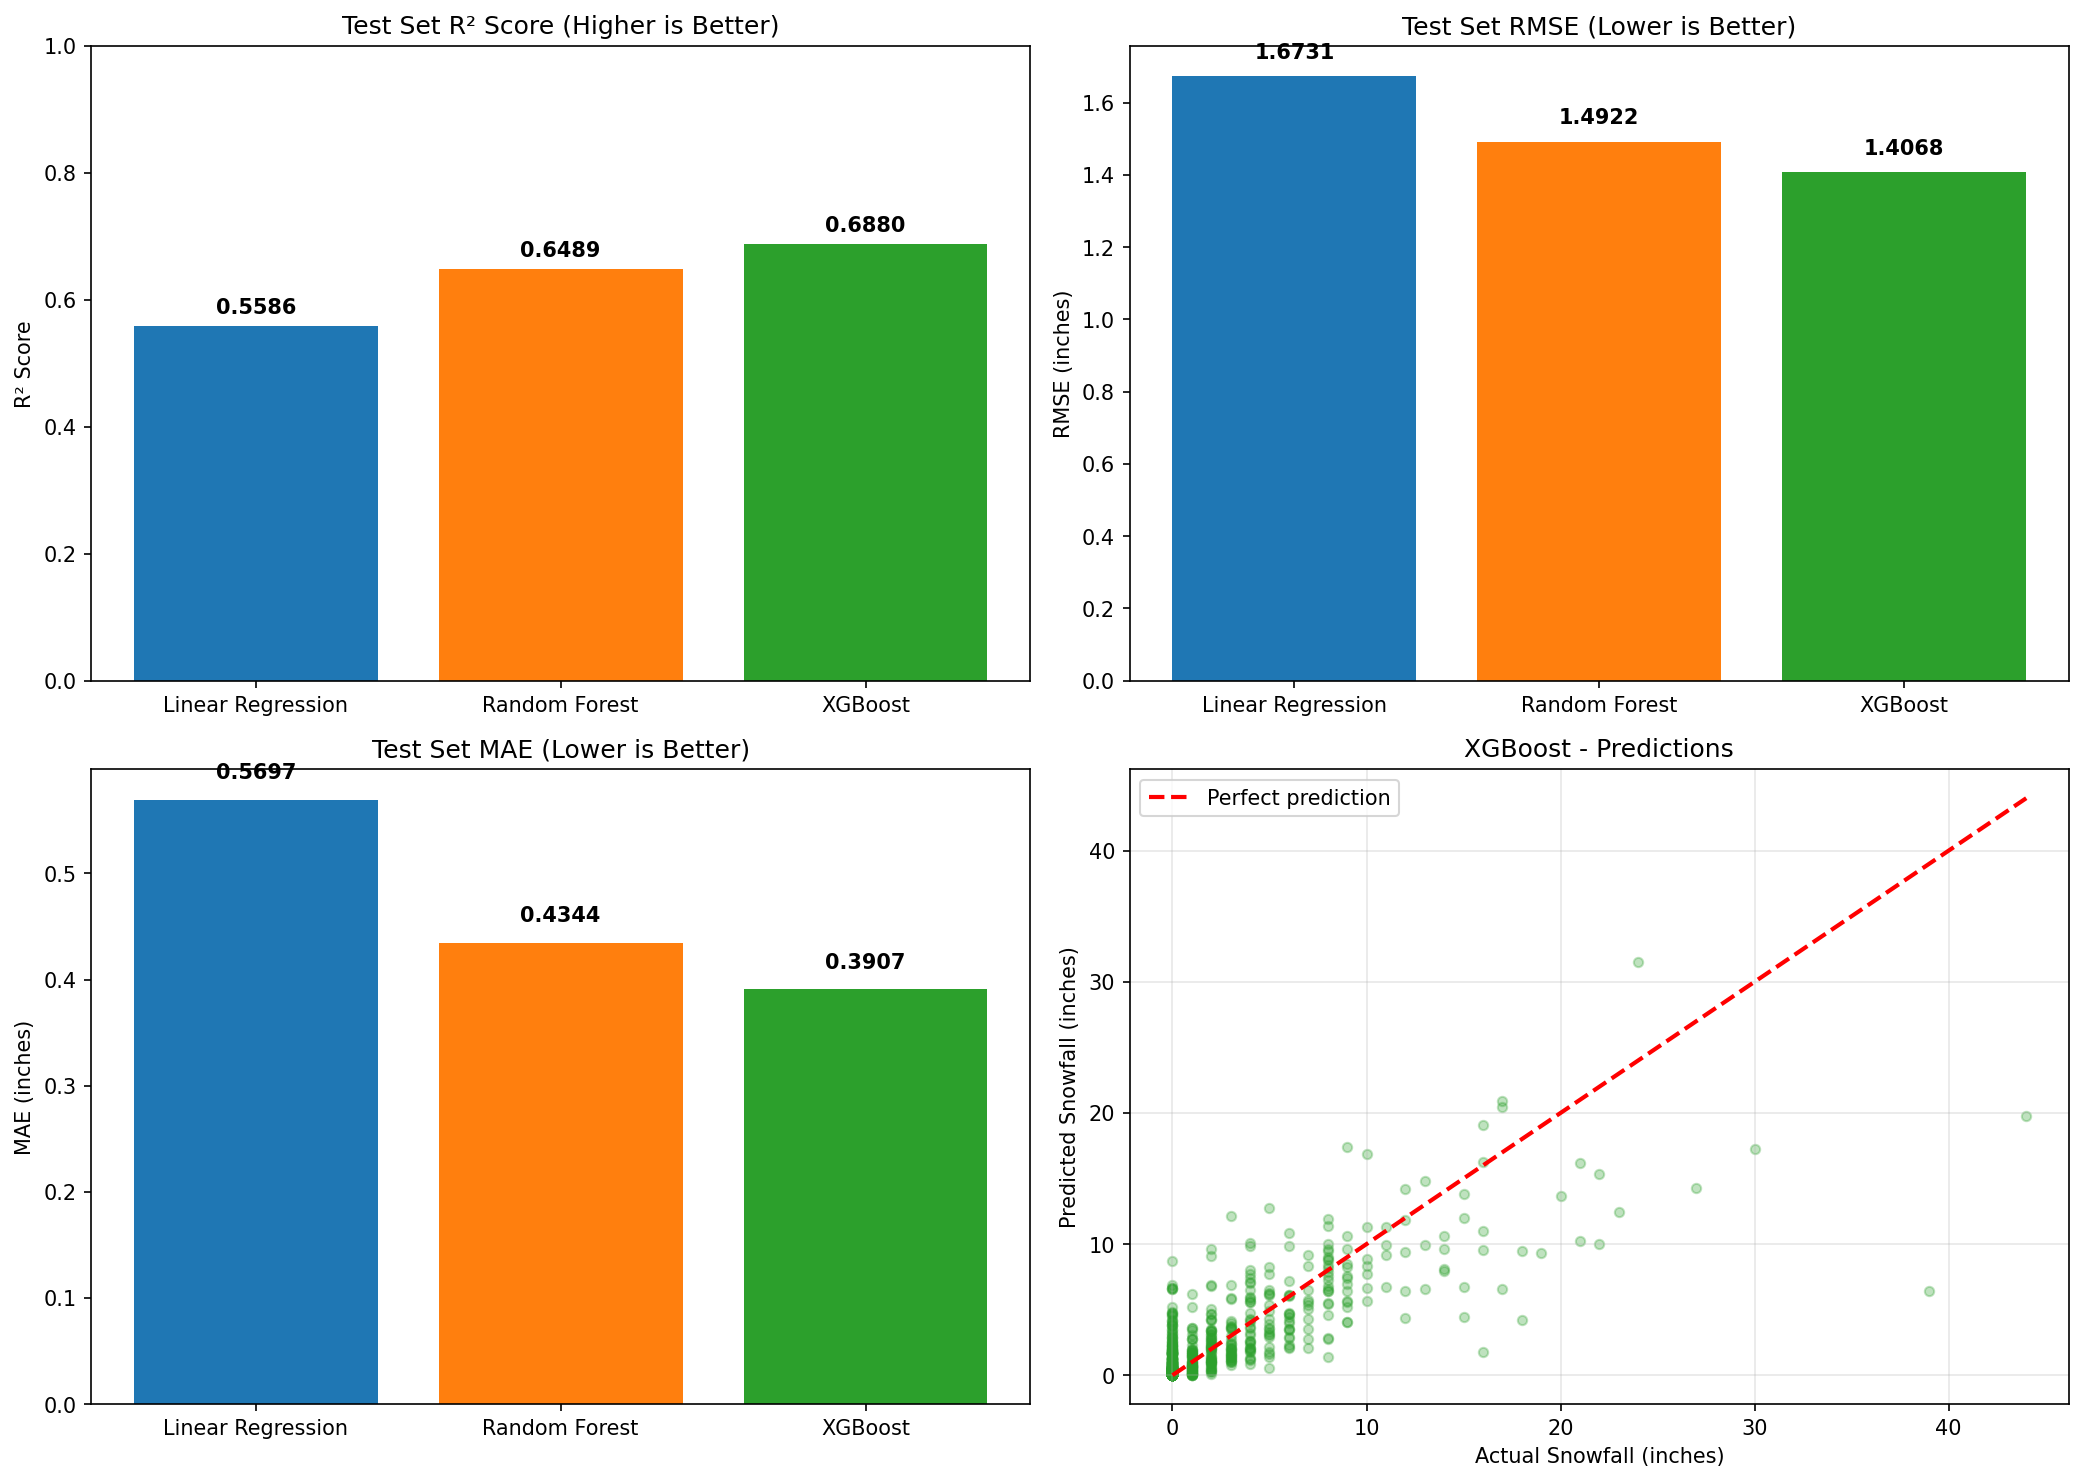
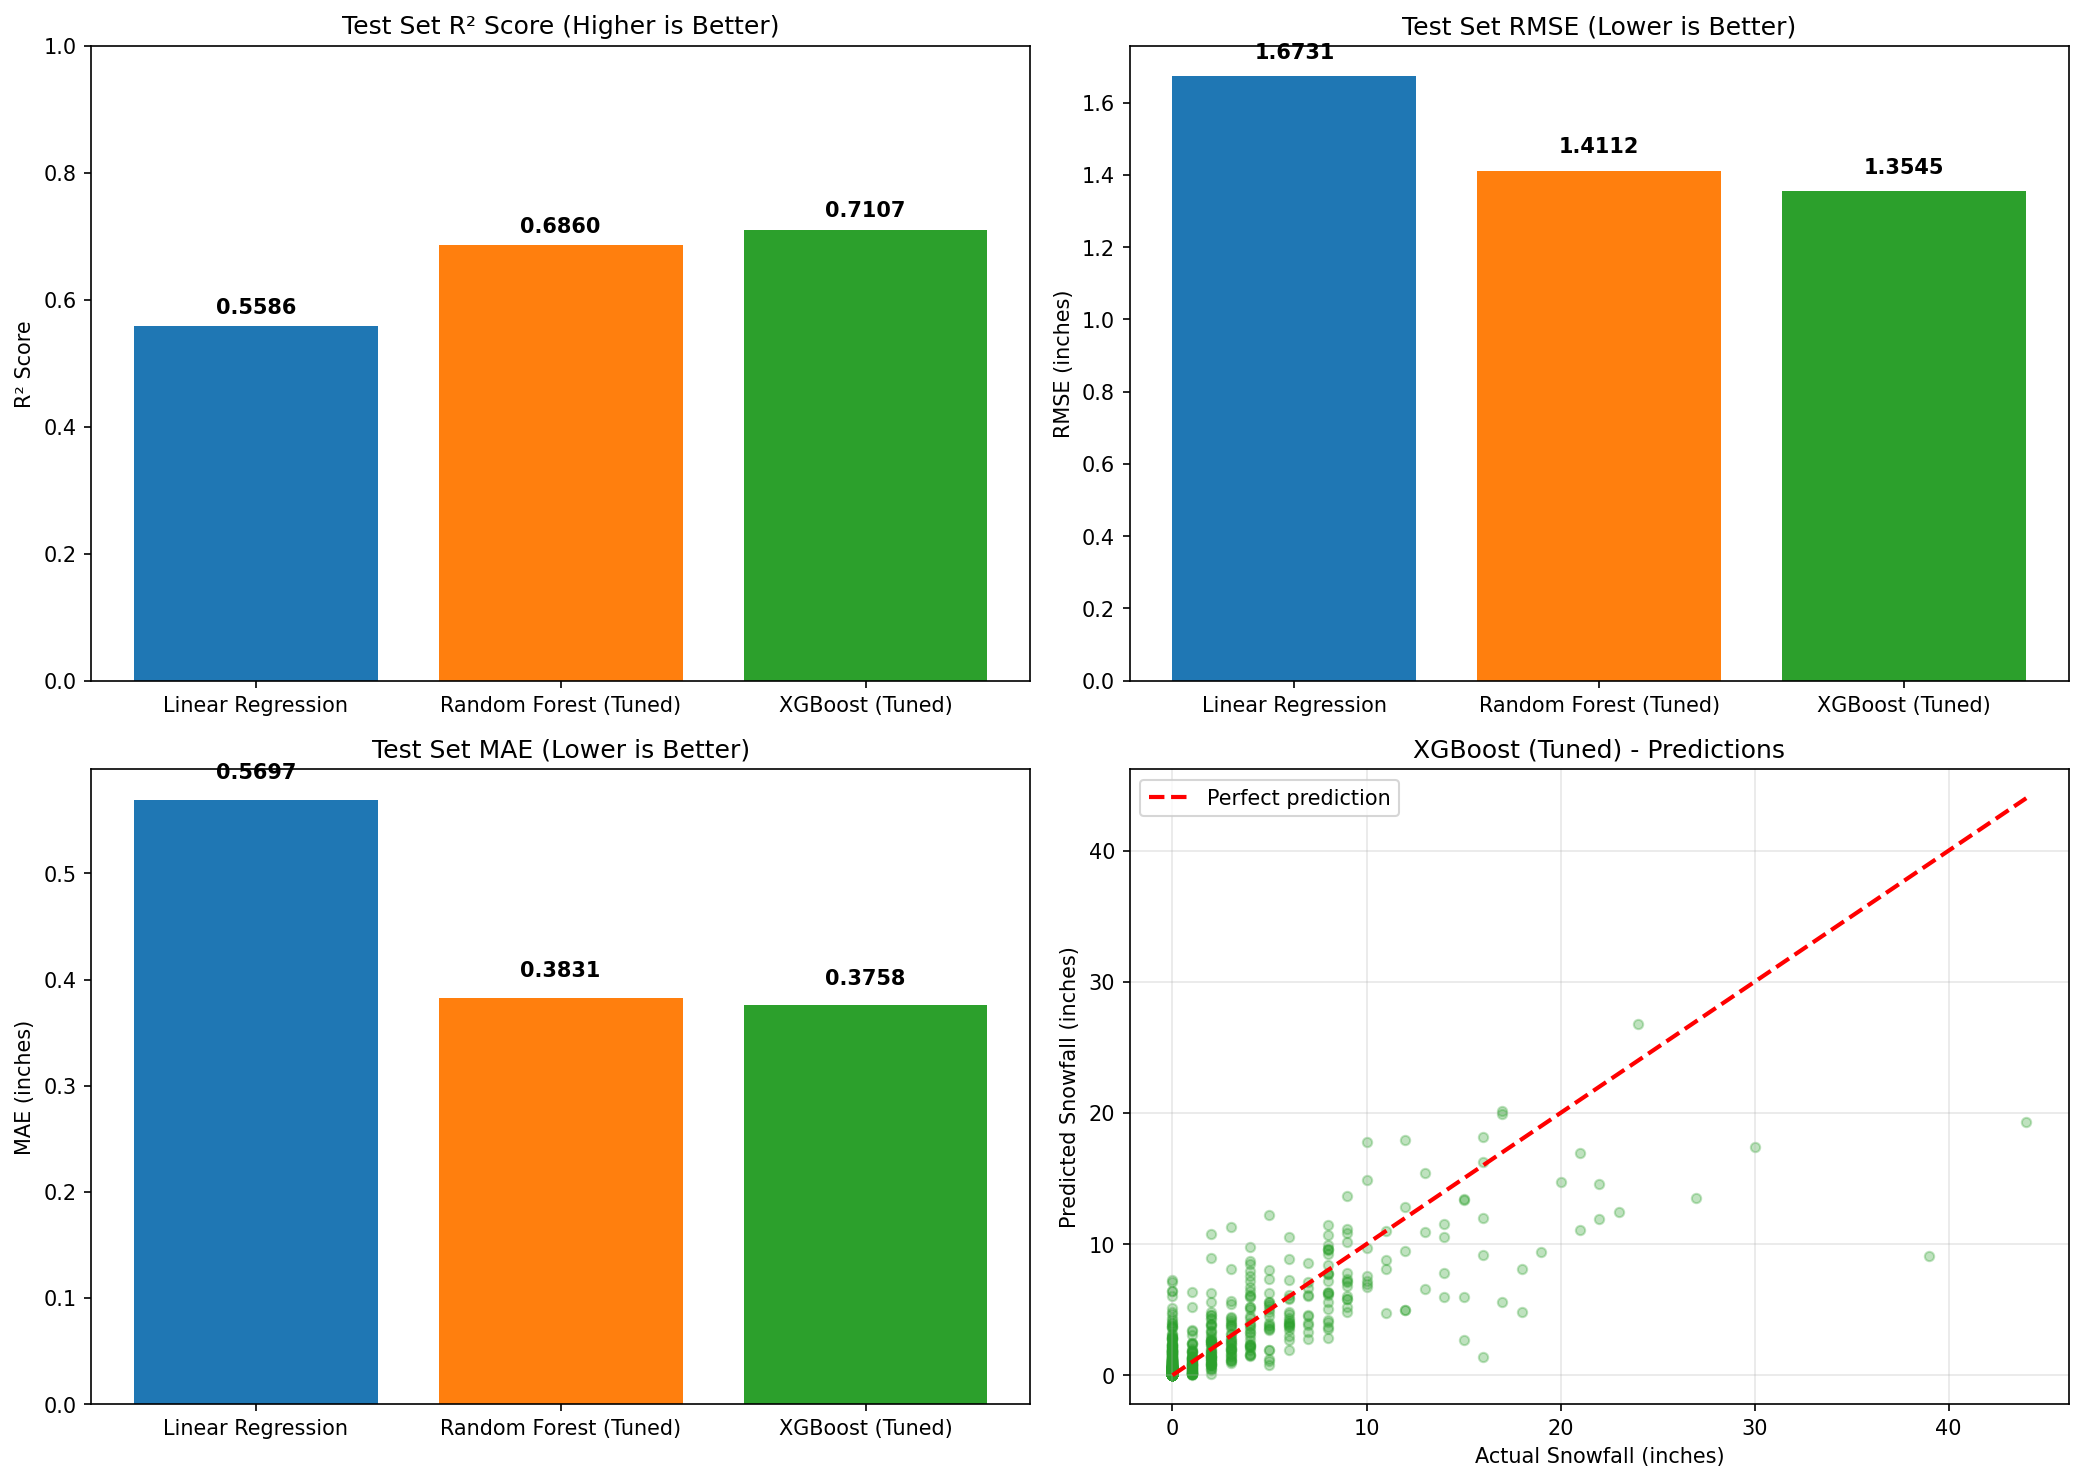
hyperparameter tuning on XGBoost RF

diff --git a/train_advanced_models.py b/train_advanced_models.py
@@ -8,6 +8,7 @@ from sklearn.ensemble import RandomForestRegressor
 from sklearn.linear_model import LinearRegression
 from sklearn.preprocessing import StandardScaler
 from sklearn.metrics import mean_squared_error, mean_absolute_error, r2_score
+from sklearn.model_selection import RandomizedSearchCV
 import xgboost as xgb
 import matplotlib.pyplot as plt
 import seaborn as sns
@@ -123,28 +124,65 @@ def train_linear_regression(X_train, X_test, y_train, y_test):
     wrapped_model = ScaledLinearRegression(model, scaler)
     return evaluate_model(wrapped_model, X_train, X_test, y_train, y_test, "Linear Regression")
 
-def train_random_forest(X_train, X_test, y_train, y_test, feature_cols):
-    """Train Random Forest"""
+def train_random_forest(X_train, X_test, y_train, y_test, feature_cols, tune_hyperparams=True):
+    """Train Random Forest with optional hyperparameter tuning"""
     print("\n" + "=" * 80)
     print("TRAINING RANDOM FOREST")
     print("=" * 80)
 
     start_time = time.time()
-    model = RandomForestRegressor(
-        n_estimators=200,        # Number of trees
-        max_depth=20,            # Maximum depth
-        min_samples_split=10,    # Minimum samples to split
-        min_samples_leaf=4,      # Minimum samples per leaf
-        max_features='sqrt',     # Features per split
-        random_state=42,
-        n_jobs=-1,              # Use all CPU cores
-        verbose=1
-    )
 
-    model.fit(X_train, y_train)
-    train_time = time.time() - start_time
+    if tune_hyperparams:
+        print("Running hyperparameter tuning with RandomizedSearchCV...")
 
-    print(f"Training time: {train_time:.2f} seconds")
+        # Parameter distribution for RandomizedSearchCV
+        param_dist = {
+            'n_estimators': [100, 200, 300, 500],
+            'max_depth': [10, 15, 20, 25, None],        # Limit depth to reduce overfitting
+            'min_samples_split': [5, 10, 20, 30],       # Require more samples to split
+            'min_samples_leaf': [2, 4, 8, 12],          # Require more samples per leaf
+            'max_features': ['sqrt', 'log2', 0.5],      # Limit features per split
+            'max_samples': [0.6, 0.7, 0.8, 0.9]         # Bootstrap sample size
+        }
+
+        # Base model
+        rf_base = RandomForestRegressor(random_state=42, n_jobs=-1)
+
+        # RandomizedSearchCV
+        random_search = RandomizedSearchCV(
+            rf_base,
+            param_distributions=param_dist,
+            n_iter=30,              # Try 30 random combinations
+            cv=3,                   # 3-fold cross-validation
+            scoring='r2',
+            n_jobs=-1,
+            verbose=2,
+            random_state=42
+        )
+
+        random_search.fit(X_train, y_train)
+        model = random_search.best_estimator_
+
+        train_time = time.time() - start_time
+        print(f"\nBest parameters found:")
+        for param, value in random_search.best_params_.items():
+            print(f"  {param}: {value}")
+        print(f"Best CV R² score: {random_search.best_score_:.4f}")
+        print(f"Training time (including tuning): {train_time:.2f} seconds")
+    else:
+        model = RandomForestRegressor(
+            n_estimators=200,
+            max_depth=20,
+            min_samples_split=10,
+            min_samples_leaf=4,
+            max_features='sqrt',
+            random_state=42,
+            n_jobs=-1,
+            verbose=1
+        )
+        model.fit(X_train, y_train)
+        train_time = time.time() - start_time
+        print(f"Training time: {train_time:.2f} seconds")
 
     # Feature importance
     importance_df = pd.DataFrame({
@@ -155,34 +193,73 @@ def train_random_forest(X_train, X_test, y_train, y_test, feature_cols):
     print("\nTop 15 Most Important Features:")
     print(importance_df.head(15).to_string(index=False))
 
-    results = evaluate_model(model, X_train, X_test, y_train, y_test, "Random Forest")
+    model_name = "Random Forest (Tuned)" if tune_hyperparams else "Random Forest"
+    results = evaluate_model(model, X_train, X_test, y_train, y_test, model_name)
     results['feature_importance'] = importance_df
     return results
 
-def train_xgboost(X_train, X_test, y_train, y_test, feature_cols):
-    """Train XGBoost"""
+def train_xgboost(X_train, X_test, y_train, y_test, feature_cols, tune_hyperparams=True):
+    """Train XGBoost with optional hyperparameter tuning"""
     print("\n" + "=" * 80)
     print("TRAINING XGBOOST")
     print("=" * 80)
 
     start_time = time.time()
-    model = xgb.XGBRegressor(
-        n_estimators=200,
-        max_depth=8,
-        learning_rate=0.1,
-        subsample=0.8,
-        colsample_bytree=0.8,
-        min_child_weight=3,
-        gamma=0.1,
-        random_state=42,
-        n_jobs=-1,
-        verbosity=1
-    )
 
-    model.fit(X_train, y_train, verbose=False)
-    train_time = time.time() - start_time
+    if tune_hyperparams:
+        print("Running hyperparameter tuning with RandomizedSearchCV...")
 
-    print(f"Training time: {train_time:.2f} seconds")
+        # Parameter distribution with regularization focus
+        param_dist = {
+            'max_depth': [3, 4, 5, 6],              # Shallower trees
+            'min_child_weight': [1, 3, 5, 7],       # Require more data per leaf
+            'learning_rate': [0.01, 0.05, 0.1],     # Slower learning
+            'subsample': [0.6, 0.7, 0.8, 0.9],      # Random row sampling
+            'colsample_bytree': [0.6, 0.7, 0.8],    # Random feature sampling
+            'n_estimators': [100, 300, 500, 1000],  # More trees (with early stopping)
+            'gamma': [0, 0.1, 0.2]                  # Minimum loss reduction (regularization)
+        }
+
+        # Base model
+        xgb_base = xgb.XGBRegressor(random_state=42, n_jobs=-1, verbosity=1)
+
+        # RandomizedSearchCV
+        random_search = RandomizedSearchCV(
+            xgb_base,
+            param_distributions=param_dist,
+            n_iter=30,              # Try 30 random combinations
+            cv=3,                   # 3-fold cross-validation
+            scoring='r2',
+            n_jobs=-1,
+            verbose=2,
+            random_state=42
+        )
+
+        random_search.fit(X_train, y_train)
+        model = random_search.best_estimator_
+
+        train_time = time.time() - start_time
+        print(f"\nBest parameters found:")
+        for param, value in random_search.best_params_.items():
+            print(f"  {param}: {value}")
+        print(f"Best CV R² score: {random_search.best_score_:.4f}")
+        print(f"Training time (including tuning): {train_time:.2f} seconds")
+    else:
+        model = xgb.XGBRegressor(
+            n_estimators=200,
+            max_depth=8,
+            learning_rate=0.1,
+            subsample=0.8,
+            colsample_bytree=0.8,
+            min_child_weight=3,
+            gamma=0.1,
+            random_state=42,
+            n_jobs=-1,
+            verbosity=1
+        )
+        model.fit(X_train, y_train, verbose=False)
+        train_time = time.time() - start_time
+        print(f"Training time: {train_time:.2f} seconds")
 
     # Feature importance
     importance_df = pd.DataFrame({
@@ -193,8 +270,10 @@ def train_xgboost(X_train, X_test, y_train, y_test, feature_cols):
     print("\nTop 15 Most Important Features:")
     print(importance_df.head(15).to_string(index=False))
 
-    results = evaluate_model(model, X_train, X_test, y_train, y_test, "XGBoost")
+    model_name = "XGBoost (Tuned)" if tune_hyperparams else "XGBoost"
+    results = evaluate_model(model, X_train, X_test, y_train, y_test, model_name)
     results['feature_importance'] = importance_df
+    results['model'] = model  # Save model for later use
     return results
 
 def compare_models(results_list):

diff --git a/data_extraction.py b/data_extraction.py
@@ -26,7 +26,6 @@ part_list = [
 ]
 elements = ",".join(part_list)
 
-# --- CHANGE 2: Dynamic URL ---
 base_url = (
     "https://wcc.sc.egov.usda.gov/reportGenerator/view_csv/"
     "customSingleStationReport/daily/{station_id}|id=%22%22|name/"
@@ -40,9 +39,8 @@ headers = {
 def fetch_and_clean_station(resort_name, station_id):
     print(f"--- Processing {resort_name} ({station_id}) ---")
 
-    # 1. Construct URL with the new 'elements' variable
+    # 1. Construct URL with the elements variable
     url = base_url.format(station_id=station_id, start=START_DATE, end=END_DATE, elements=elements)
-    # print(f"Requesting URL: {url}") # Uncomment to debug
 
     try:
         # 2. Fetch Data
@@ -63,7 +61,6 @@ def fetch_and_clean_station(resort_name, station_id):
             print("Error: DataFrame is empty after parsing.")
             return None
 
-        # --- CHANGE 3: Update Column Headers to match 'elements' ---
         # The order here MUST match the order in 'part_list' above + Date at the start.
         df.columns = [
             'Date', 
@@ -102,8 +99,7 @@ for resort, snotel_id in stations.items():
 if all_data:
     final_df = pd.concat(all_data, ignore_index=True)
 
-    # Final Cleanup - Ensure we don't drop rows just because wind/soil data is missing
-    # (Only drop if the essential Snow Depth is missing)
+    # Only drop if the essential Snow Depth is missing
     final_df.dropna(subset=['NewSnow_in'], inplace=True)
 
     filename = "nwcc_snow_data.csv"
